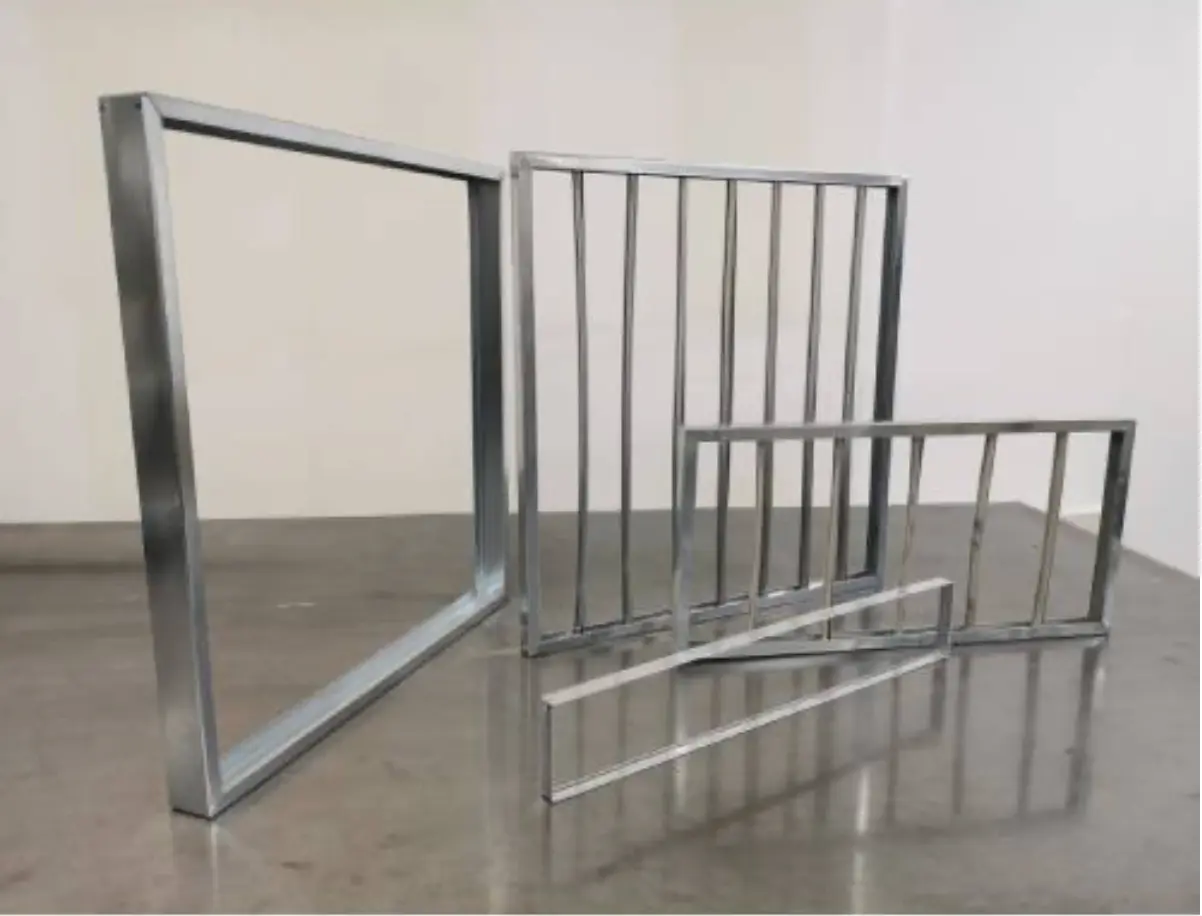
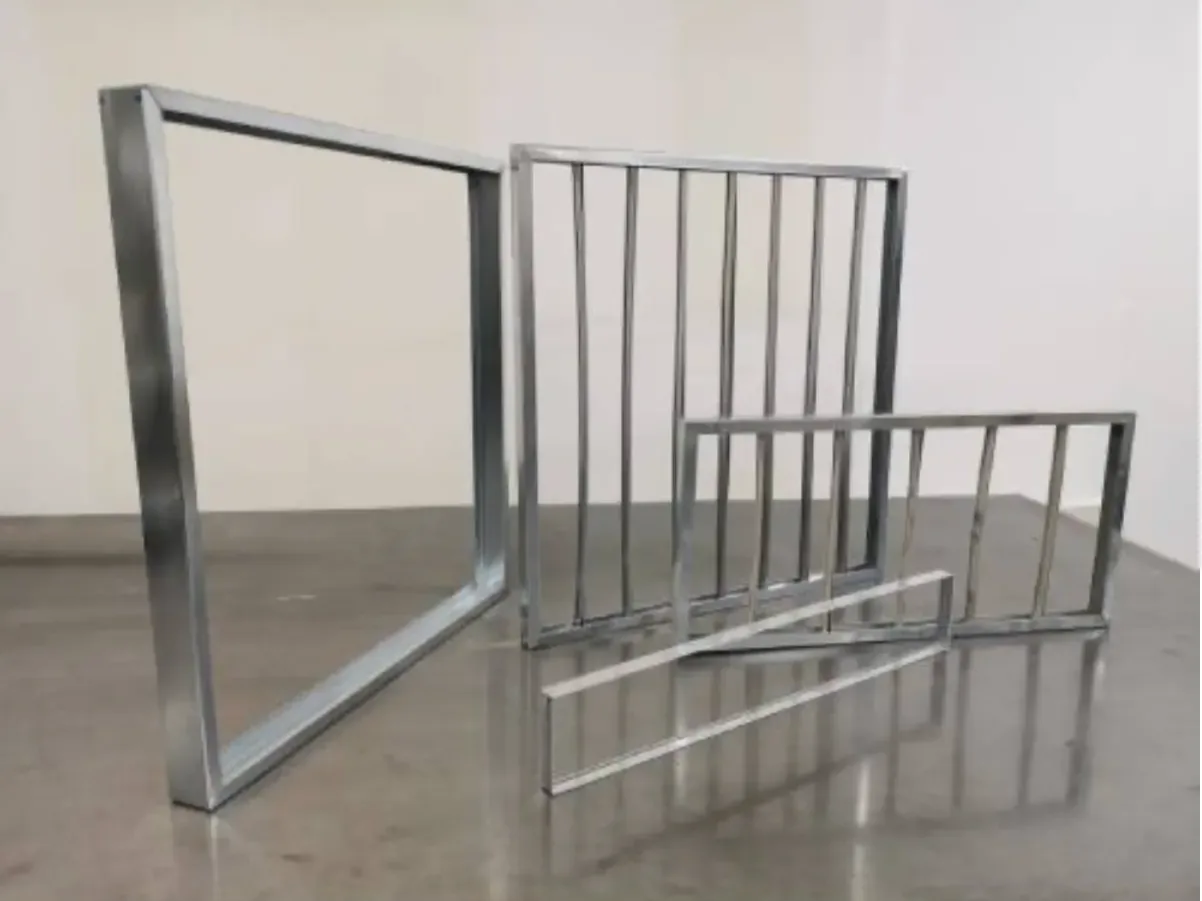
Show a product photo on every filter category card
Each category now carries a representative variant shot, shown on a
rounded white plate at the top of the overview card on the home page
and the catalogue index. The shots are square cut-outs with varying
margins, so the plate contains rather than crops them; the card number
moves to a chip in the plate corner and cards stretch to level the CTA.
The frames photo is trimmed to 4:3 so it fills the plate.

diff --git a/src/data/products.ts b/src/data/products.ts
@@ -71,6 +71,12 @@ export type ProductCategory = {
   /** Category page heading, including the YAFI range code. Falls back to `name`. */
   title?: string;
   class: string;
+  /**
+   * Overview-card photo, path under `public/`. One representative variant
+   * per range; the square white-background shots sit on a white plate, so a
+   * card without one keeps the same footprint with a watermark instead.
+   */
+  image?: string;
   /** One-line copy for the overview card. */
   description: string;
   /** Category page lead paragraph. Falls back to `description`. */
@@ -1752,6 +1758,7 @@ const sr: ProductCategory[] = [
     nameAcc: "filterske materijale",
     title: "Filterski materijali – YAFI FM",
     class: "Rolne i ploče, EU2 – F9",
+    image: "/yafiproducts/filter-materijali/Filteri-od-sintetickih-vlakana.webp",
     description:
       "Filterska medija u rolnama i pločama — sintetička, staklena vlakna i podne medije za sopstvenu konfekciju i zamenu uložaka.",
     intro:
@@ -2092,6 +2099,7 @@ const sr: ProductCategory[] = [
     name: "Panelni filteri – YAFI PF",
     nameAcc: "panelne filtere",
     class: "G2 – M5, poliester",
+    image: "/yafiproducts/panelni-filteri/predfilter-metalnog-okvira-i-ravne-povrsine.webp",
     description:
       "Prvi stepen zaštite ventilacionih sistema. Zadržavaju krupnije čestice i produžavaju vek trajanja narednih filterskih stepeni.",
     intro:
@@ -2448,6 +2456,7 @@ const sr: ProductCategory[] = [
     nameAcc: "kasetne filtere",
     title: "Kasetni filteri – YAFI KF",
     class: "G3 – F9, poliester i mini plit",
+    image: "/yafiproducts/kasetni-filteri/predfilter-sa-metalnim-okvirom.webp",
     description:
       "Kompaktna konstrukcija sa velikom filtracionom površinom i niskim padom pritiska — direktan uticaj na potrošnju energije.",
     intro:
@@ -2817,6 +2826,7 @@ const sr: ProductCategory[] = [
     nameAcc: "vrećaste filtere",
     title: "Vrećasti filteri – YAFI VF",
     class: "G3 – F9, poliester i polipropilen",
+    image: "/yafiproducts/vrecasti-filteri/Vrecasti-filter-za-finu-prasinu-metalni-okvir-F7.webp",
     description:
       "Multi-vrećasta konstrukcija za velike protoke vazduha uz dugotrajnu efikasnost, standard u industrijskim sistemima.",
     intro:
@@ -3224,6 +3234,7 @@ const sr: ProductCategory[] = [
     name: "Rigidni V filteri – YAFI RF",
     nameAcc: "rigidne V filtere",
     class: "F6 – F9, staklena i celulozna vlakna",
+    image: "/yafiproducts/rigidni-v-filteri/Rigidni-Vrecasti-Filter-Plasticni-Okvir-4V-Standard.webp",
     description:
       "Rigidna V konstrukcija sa mini-plisiranom medijom visoke gustine — maksimalna filtraciona površina u ograničenom prostoru ugradnje.",
     intro:
@@ -3893,6 +3904,7 @@ const sr: ProductCategory[] = [
     nameAcc: "apsolutne HEPA filtere",
     title: "Apsolutni filteri – HEPA – YAFI AF",
     class: "EN 1822, E10 – H14",
+    image: "/yafiproducts/apsolutni-filteri/1/Apsolutni-HEPA-Filteri-MDF-Okvir-78mm.webp",
     description:
       "Krajnji stepen filtracije za validovane čiste prostore. Zadržavaju čestice submikronskih dimenzija sa visokom pouzdanošću.",
     intro:
@@ -4170,6 +4182,7 @@ const sr: ProductCategory[] = [
     nameAcc: "filtere za uklanjanje mirisa i masnoće",
     title: "Filteri za masne pare – YAFI MF",
     class: "Aktivni ugalj i masni filteri",
+    image: "/yafiproducts/filteri-za-uklanjanje-mirisa-i-masnoce/Kertridzi-sa-aktivnim-ugljem.webp",
     description:
       "Aktivni ugalj za gasovite polutante i mirise, i masni filteri za kuhinjske nape — tamo gde mehanička filtracija nije dovoljna.",
     intro:
@@ -4703,6 +4716,7 @@ const sr: ProductCategory[] = [
     name: "Filteri za lakirnice",
     nameAcc: "filtere za lakirnice",
     class: "Podni, plafonski i paint-stop",
+    image: "/yafiproducts/filteri-za-lakirnice/filteri-za-lakirnice.webp",
     description:
       "Podni, plafonski i paint-stop filteri za zadržavanje čestica boje u procesima lakiranja u auto-industriji i metalnoj industriji.",
     intro:
@@ -4738,6 +4752,7 @@ const sr: ProductCategory[] = [
     name: "Ramovi za filtere",
     nameAcc: "ramove za filtere",
     class: "Nosivi i zatezni sistemi",
+    image: "/yafiproducts/ramovi-za-filtere/ramovi-za-filtere.webp",
     description:
       "Nosivi ramovi, zatezni okviri i kućišta koja obezbeđuju zaptivanje filtera — bez propuštanja vazduha oko uloška.",
     intro:
@@ -4832,6 +4847,7 @@ const en: ProductCategory[] = [
     nameAcc: "filter media",
     title: "Filter media – YAFI FM",
     class: "Rolls and pads, EU2 – F9",
+    image: "/yafiproducts/filter-materijali/Filteri-od-sintetickih-vlakana.webp",
     description:
       "Filter media in rolls and pads — synthetic, glass fibre and floor media for in-house fabrication and insert replacement.",
     intro:
@@ -5144,6 +5160,7 @@ const en: ProductCategory[] = [
     name: "Panel filters – YAFI PF",
     nameAcc: "panel filters",
     class: "G2 – M5, polyester",
+    image: "/yafiproducts/panelni-filteri/predfilter-metalnog-okvira-i-ravne-povrsine.webp",
     description:
       "The first line of protection for ventilation systems. They capture coarser particles and extend the service life of the filter stages that follow.",
     intro:
@@ -5497,6 +5514,7 @@ const en: ProductCategory[] = [
     nameAcc: "cassette filters",
     title: "Cassette filters – YAFI KF",
     class: "G3 – F9, polyester and mini-pleat",
+    image: "/yafiproducts/kasetni-filteri/predfilter-sa-metalnim-okvirom.webp",
     description:
       "A compact construction with a large filtration area and a low pressure drop — with a direct effect on energy consumption.",
     intro:
@@ -5866,6 +5884,7 @@ const en: ProductCategory[] = [
     nameAcc: "bag filters",
     title: "Bag filters – YAFI VF",
     class: "G3 – F9, polyester and polypropylene",
+    image: "/yafiproducts/vrecasti-filteri/Vrecasti-filter-za-finu-prasinu-metalni-okvir-F7.webp",
     description:
       "A multi-pocket construction for high air flows with long-lasting efficiency — the standard in industrial systems.",
     intro:
@@ -6275,6 +6294,7 @@ const en: ProductCategory[] = [
     name: "Rigid V-cell filters – YAFI RF",
     nameAcc: "rigid V-cell filters",
     class: "F6 – F9, glass and cellulose fibre",
+    image: "/yafiproducts/rigidni-v-filteri/Rigidni-Vrecasti-Filter-Plasticni-Okvir-4V-Standard.webp",
     description:
       "A rigid V-cell construction with high-density mini-pleat media — the maximum filtration area within a limited installation depth.",
     intro:
@@ -6897,6 +6917,7 @@ const en: ProductCategory[] = [
     nameAcc: "absolute HEPA filters",
     title: "Absolute filters – HEPA – YAFI AF",
     class: "EN 1822, E10 – H14",
+    image: "/yafiproducts/apsolutni-filteri/1/Apsolutni-HEPA-Filteri-MDF-Okvir-78mm.webp",
     description:
       "The final filtration stage for validated clean environments. They capture submicron particles with high reliability.",
     intro:
@@ -7174,6 +7195,7 @@ const en: ProductCategory[] = [
     nameAcc: "odour and grease removal filters",
     title: "Grease vapour filters – YAFI MF",
     class: "Activated carbon and grease filters",
+    image: "/yafiproducts/filteri-za-uklanjanje-mirisa-i-masnoce/Kertridzi-sa-aktivnim-ugljem.webp",
     description:
       "Activated carbon for gaseous pollutants and odours, and grease filters for kitchen extraction hoods — where mechanical filtration alone is not enough.",
     intro:
@@ -7698,6 +7720,7 @@ const en: ProductCategory[] = [
     name: "Paint shop filters",
     nameAcc: "paint shop filters",
     class: "Floor, ceiling and paint-stop",
+    image: "/yafiproducts/filteri-za-lakirnice/filteri-za-lakirnice.webp",
     description:
       "Floor, ceiling and paint-stop filters that capture paint particles in coating processes across the automotive and metal industries.",
     intro:
@@ -7732,6 +7755,7 @@ const en: ProductCategory[] = [
     name: "Filter frames",
     nameAcc: "filter frames",
     class: "Holding and clamping systems",
+    image: "/yafiproducts/ramovi-za-filtere/ramovi-za-filtere.webp",
     description:
       "Holding frames, clamping frames and housings that seal the filter in place — so no air bypasses the insert.",
     intro:

diff --git a/src/components/ProductCard.tsx b/src/components/ProductCard.tsx
@@ -1,3 +1,4 @@
+import Image from "next/image";
 import Link from "next/link";
 import PleatIcon from "./PleatIcon";
 import type { ProductCategory } from "@/data/products";
@@ -21,19 +22,42 @@ export default function ProductCard({
       href={localePath(locale, productPath(product.slug))}
       id={product.slug}
       data-cursor="link"
-      className="group relative flex flex-col justify-between overflow-hidden rounded-2xl border border-navy-700/70 bg-navy-900/60 p-7 transition-all duration-500 hover:-translate-y-1.5 hover:border-orange-500/50 hover:bg-navy-800/80 scroll-mt-32"
+      className="group relative flex h-full flex-col overflow-hidden rounded-2xl border border-navy-700/70 bg-navy-900/60 p-6 transition-all duration-500 hover:-translate-y-1.5 hover:border-orange-500/50 hover:bg-navy-800/80 scroll-mt-32"
     >
       <div className="card-grid-line pointer-events-none absolute inset-0 opacity-0 transition-opacity duration-500 group-hover:opacity-100" />
-      <div className="relative flex items-start justify-between">
-        <PleatIcon className="h-10 w-10 shrink-0 transition-transform duration-500 group-hover:scale-110" />
+
+      {/* Product shots are square cut-outs on white, so the plate is white and
+          the photo is contained rather than cropped — margins differ per shot
+          and a fixed crop would clip the taller ones (rolls, bag filters). */}
+      <div
+        className={`relative aspect-[4/3] overflow-hidden rounded-[1.25rem] border border-navy-700/60 ${
+          product.image ? "bg-white" : "bg-navy-950/50"
+        }`}
+      >
+        {product.image ? (
+          <Image
+            src={product.image}
+            alt={product.name}
+            fill
+            sizes="(min-width: 1440px) 400px, (min-width: 1024px) 30vw, (min-width: 640px) 45vw, 92vw"
+            className="object-contain transition-transform duration-700 ease-out group-hover:scale-[1.04]"
+          />
+        ) : (
+          <>
+            <div className="card-grid-line pointer-events-none absolute inset-0 opacity-60" />
+            <div className="flex h-full items-center justify-center">
+              <PleatIcon className="h-10 w-10 opacity-25" />
+            </div>
+          </>
+        )}
         {typeof index === "number" && (
-          <span className="font-display text-xs text-ink-400">
+          <span className="absolute right-3 top-3 rounded-full border border-navy-700 bg-navy-900 px-2.5 py-1 font-display text-xs leading-none text-ink-300">
             {String(index + 1).padStart(2, "0")}
           </span>
         )}
       </div>
 
-      <div className="relative mt-8">
+      <div className="relative mt-6">
         <span className="text-xs font-semibold uppercase tracking-widest text-orange-400">
           {product.class}
         </span>
@@ -56,7 +80,8 @@ export default function ProductCard({
         </ul>
       </div>
 
-      <div className="relative mt-6 flex items-center gap-2 text-sm font-semibold text-ink-200 transition-colors group-hover:text-orange-300">
+      {/* `mt-auto` keeps the call to action on the baseline across the row. */}
+      <div className="relative mt-auto flex items-center gap-2 pt-6 text-sm font-semibold text-ink-200 transition-colors group-hover:text-orange-300">
         {dict.productCard.cta}
         <span className="transition-transform duration-500 group-hover:translate-x-1.5">
           →
